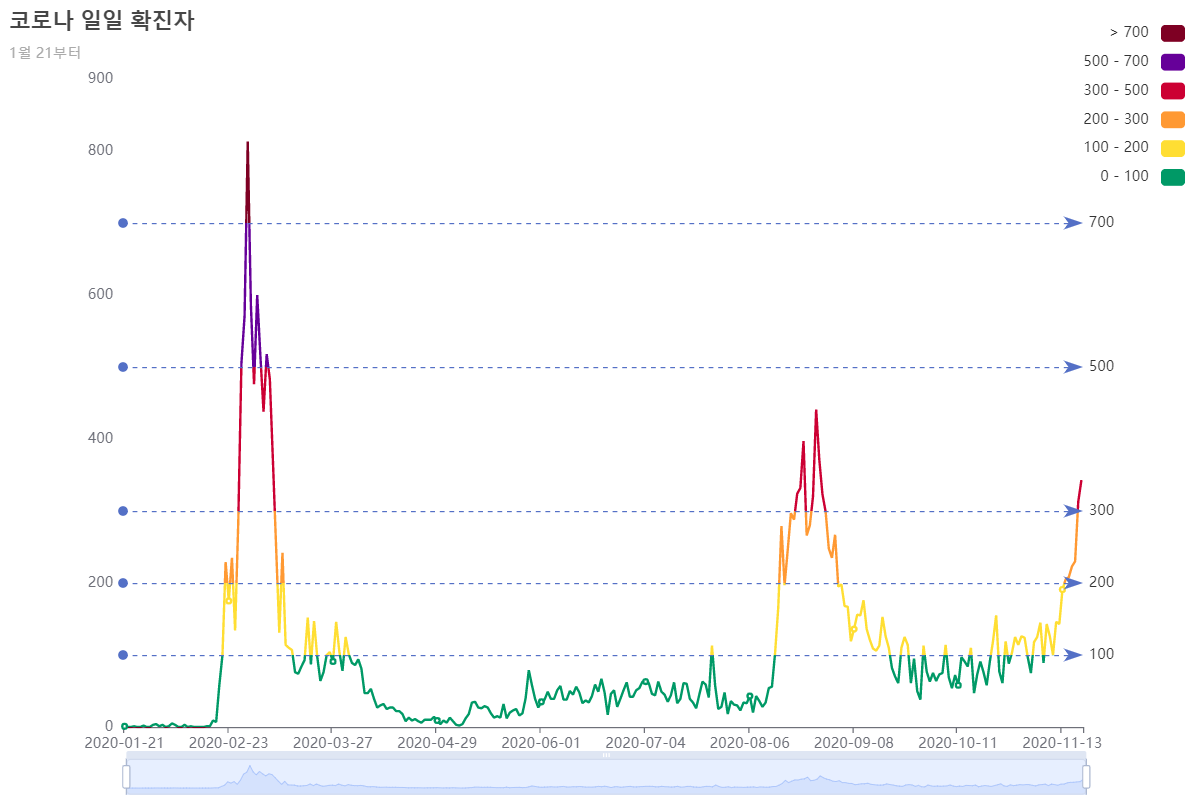
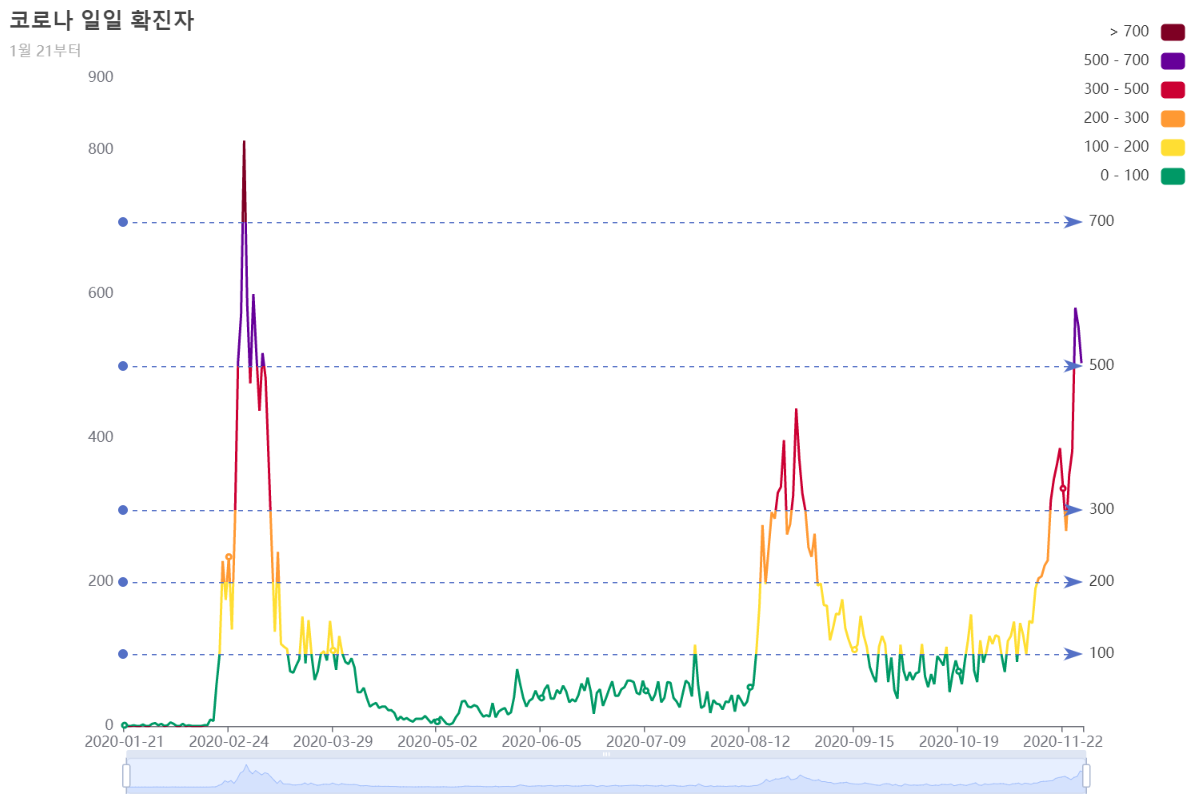
20-11-29 change

diff --git a/visualization/Covid19/index.html b/visualization/Covid19/index.html
@@ -99,7 +99,10 @@
        '2020-11-04', '2020-11-05', '2020-11-06', '2020-11-07',
        '2020-11-08', '2020-11-09', '2020-11-10', '2020-11-11',
        '2020-11-12', '2020-11-13', '2020-11-14', '2020-11-15',
-       '2020-11-16', '2020-11-17', '2020-11-18', '2020-11-19']
+       '2020-11-16', '2020-11-17', '2020-11-18', '2020-11-19',
+       '2020-11-20', '2020-11-21', '2020-11-22', '2020-11-23',
+       '2020-11-24', '2020-11-25', '2020-11-26', '2020-11-27',
+       '2020-11-28']
         },
         yAxis: {
             splitLine: {
@@ -172,7 +175,8 @@
        114,  69,  54,  72,  58,  97,  91,  84, 110,  47,  73,  91,  76,
         58,  91, 119, 155,  77,  61, 119,  88, 103, 125, 114, 126, 124,
         97,  75, 118, 125, 145,  89, 143, 126, 100, 146, 143, 191, 205,
-       208, 223, 230, 313, 343],
+       208, 223, 230, 313, 343, 363, 386, 330, 271, 349, 382, 581, 555,
+       504],
             markLine: {
                 silent: false,
                 data: [ {
